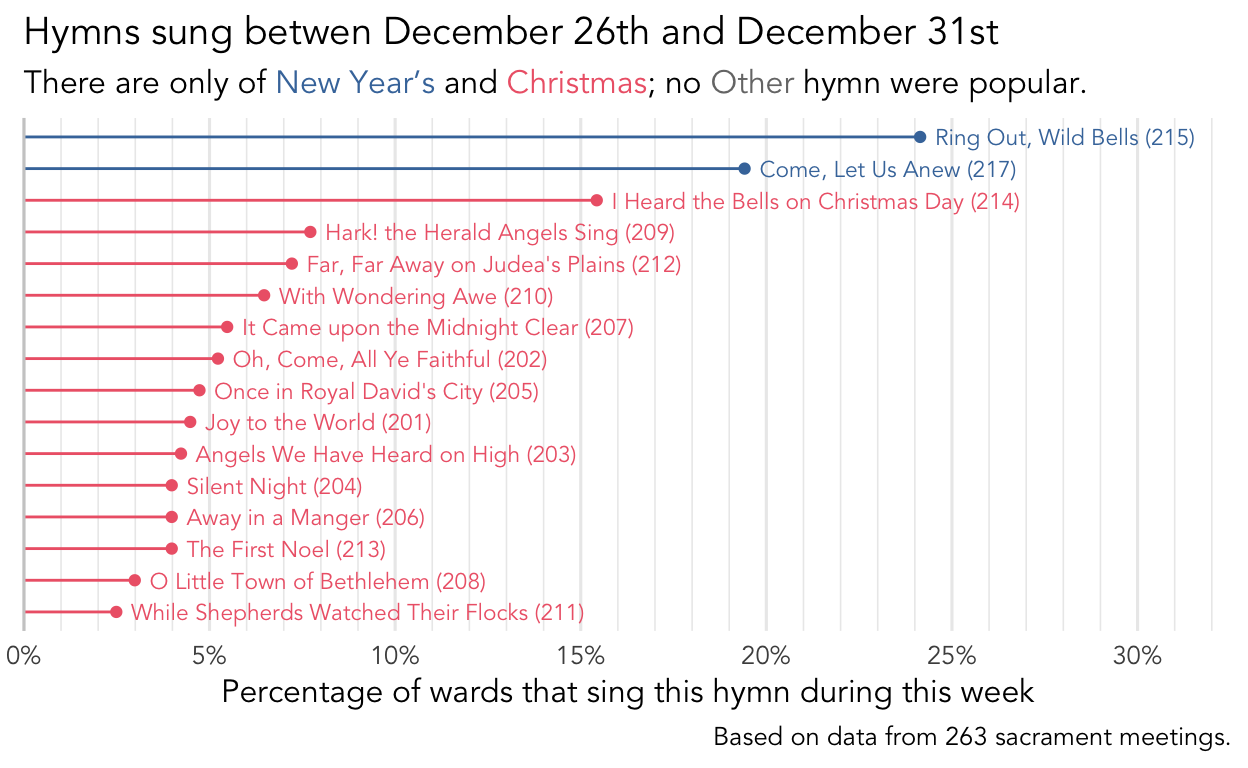
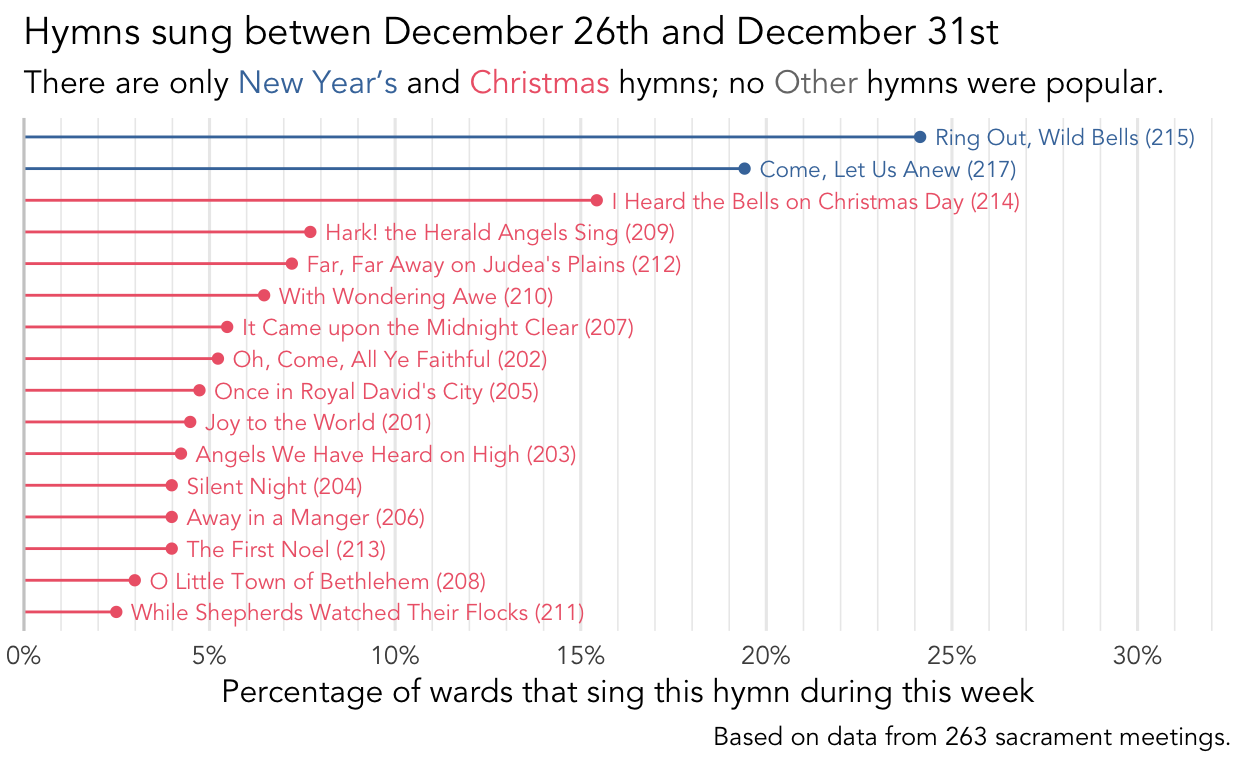
more typos

Changed region(s): [[0.1875, 0.0938, 0.9375, 0.125]]

diff --git a/docs/posts/new-years/index.html b/docs/posts/new-years/index.html
@@ -274,23 +274,23 @@ Note
 <div class="cell-output-display">
 <div id="tbl-n_of_each" class="anchored">
 
-<div id="pnsqdwybxy" style="padding-left:0px;padding-right:0px;padding-top:10px;padding-bottom:10px;overflow-x:auto;overflow-y:auto;width:auto;height:auto;">
-<style>#pnsqdwybxy table {
+<div id="xvkauwiksa" style="padding-left:0px;padding-right:0px;padding-top:10px;padding-bottom:10px;overflow-x:auto;overflow-y:auto;width:auto;height:auto;">
+<style>#xvkauwiksa table {
   font-family: system-ui, 'Segoe UI', Roboto, Helvetica, Arial, sans-serif, 'Apple Color Emoji', 'Segoe UI Emoji', 'Segoe UI Symbol', 'Noto Color Emoji';
   -webkit-font-smoothing: antialiased;
   -moz-osx-font-smoothing: grayscale;
 }
 
-#pnsqdwybxy thead, #pnsqdwybxy tbody, #pnsqdwybxy tfoot, #pnsqdwybxy tr, #pnsqdwybxy td, #pnsqdwybxy th {
+#xvkauwiksa thead, #xvkauwiksa tbody, #xvkauwiksa tfoot, #xvkauwiksa tr, #xvkauwiksa td, #xvkauwiksa th {
   border-style: none;
 }
 
-#pnsqdwybxy p {
+#xvkauwiksa p {
   margin: 0;
   padding: 0;
 }
 
-#pnsqdwybxy .gt_table {
+#xvkauwiksa .gt_table {
   display: table;
   border-collapse: collapse;
   line-height: normal;
@@ -316,12 +316,12 @@ Note
   border-left-color: #D3D3D3;
 }
 
-#pnsqdwybxy .gt_caption {
+#xvkauwiksa .gt_caption {
   padding-top: 4px;
   padding-bottom: 4px;
 }
 
-#pnsqdwybxy .gt_title {
+#xvkauwiksa .gt_title {
   color: #333333;
   font-size: 125%;
   font-weight: initial;
@@ -333,7 +333,7 @@ Note
   border-bottom-width: 0;
 }
 
-#pnsqdwybxy .gt_subtitle {
+#xvkauwiksa .gt_subtitle {
   color: #333333;
   font-size: 85%;
   font-weight: initial;
@@ -345,7 +345,7 @@ Note
   border-top-width: 0;
 }
 
-#pnsqdwybxy .gt_heading {
+#xvkauwiksa .gt_heading {
   background-color: #FFFFFF;
   text-align: center;
   border-bottom-color: #FFFFFF;
@@ -357,13 +357,13 @@ Note
   border-right-color: #D3D3D3;
 }
 
-#pnsqdwybxy .gt_bottom_border {
+#xvkauwiksa .gt_bottom_border {
   border-bottom-style: solid;
   border-bottom-width: 2px;
   border-bottom-color: #D3D3D3;
 }
 
-#pnsqdwybxy .gt_col_headings {
+#xvkauwiksa .gt_col_headings {
   border-top-style: solid;
   border-top-width: 2px;
   border-top-color: #D3D3D3;
@@ -378,7 +378,7 @@ Note
   border-right-color: #D3D3D3;
 }
 
-#pnsqdwybxy .gt_col_heading {
+#xvkauwiksa .gt_col_heading {
   color: #333333;
   background-color: #FFFFFF;
   font-size: 100%;
@@ -398,7 +398,7 @@ Note
   overflow-x: hidden;
 }
 
-#pnsqdwybxy .gt_column_spanner_outer {
+#xvkauwiksa .gt_column_spanner_outer {
   color: #333333;
   background-color: #FFFFFF;
   font-size: 100%;
@@ -410,15 +410,15 @@ Note
   padding-right: 4px;
 }
 
-#pnsqdwybxy .gt_column_spanner_outer:first-child {
+#xvkauwiksa .gt_column_spanner_outer:first-child {
   padding-left: 0;
 }
 
-#pnsqdwybxy .gt_column_spanner_outer:last-child {
+#xvkauwiksa .gt_column_spanner_outer:last-child {
   padding-right: 0;
 }
 
-#pnsqdwybxy .gt_column_spanner {
+#xvkauwiksa .gt_column_spanner {
   border-bottom-style: solid;
   border-bottom-width: 2px;
   border-bottom-color: #D3D3D3;
@@ -430,11 +430,11 @@ Note
   width: 100%;
 }
 
-#pnsqdwybxy .gt_spanner_row {
+#xvkauwiksa .gt_spanner_row {
   border-bottom-style: hidden;
 }
 
-#pnsqdwybxy .gt_group_heading {
+#xvkauwiksa .gt_group_heading {
   padding-top: 8px;
   padding-bottom: 8px;
   padding-left: 5px;
@@ -460,7 +460,7 @@ Note
   text-align: left;
 }
 
-#pnsqdwybxy .gt_empty_group_heading {
+#xvkauwiksa .gt_empty_group_heading {
   padding: 0.5px;
   color: #333333;
   background-color: #FFFFFF;
@@ -475,15 +475,15 @@ Note
   vertical-align: middle;
 }
 
-#pnsqdwybxy .gt_from_md > :first-child {
+#xvkauwiksa .gt_from_md > :first-child {
   margin-top: 0;
 }
 
-#pnsqdwybxy .gt_from_md > :last-child {
+#xvkauwiksa .gt_from_md > :last-child {
   margin-bottom: 0;
 }
 
-#pnsqdwybxy .gt_row {
+#xvkauwiksa .gt_row {
   padding-top: 8px;
   padding-bottom: 8px;
   padding-left: 5px;
@@ -502,7 +502,7 @@ Note
   overflow-x: hidden;
 }
 
-#pnsqdwybxy .gt_stub {
+#xvkauwiksa .gt_stub {
   color: #333333;
   background-color: #FFFFFF;
   font-size: 100%;
@@ -515,7 +515,7 @@ Note
   padding-right: 5px;
 }
 
-#pnsqdwybxy .gt_stub_row_group {
+#xvkauwiksa .gt_stub_row_group {
   color: #333333;
   background-color: #FFFFFF;
   font-size: 100%;
@@ -529,15 +529,15 @@ Note
   vertical-align: top;
 }
 
-#pnsqdwybxy .gt_row_group_first td {
+#xvkauwiksa .gt_row_group_first td {
   border-top-width: 2px;
 }
 
-#pnsqdwybxy .gt_row_group_first th {
+#xvkauwiksa .gt_row_group_first th {
   border-top-width: 2px;
 }
 
-#pnsqdwybxy .gt_summary_row {
+#xvkauwiksa .gt_summary_row {
   color: #333333;
   background-color: #FFFFFF;
   text-transform: inherit;
@@ -547,16 +547,16 @@ Note
   padding-right: 5px;
 }
 
-#pnsqdwybxy .gt_first_summary_row {
+#xvkauwiksa .gt_first_summary_row {
   border-top-style: solid;
   border-top-color: #D3D3D3;
 }
 
-#pnsqdwybxy .gt_first_summary_row.thick {
+#xvkauwiksa .gt_first_summary_row.thick {
   border-top-width: 2px;
 }
 
-#pnsqdwybxy .gt_last_summary_row {
+#xvkauwiksa .gt_last_summary_row {
   padding-top: 8px;
   padding-bottom: 8px;
   padding-left: 5px;
@@ -566,7 +566,7 @@ Note
   border-bottom-color: #D3D3D3;
 }
 
-#pnsqdwybxy .gt_grand_summary_row {
+#xvkauwiksa .gt_grand_summary_row {
   color: #333333;
   background-color: #FFFFFF;
   text-transform: inherit;
@@ -576,7 +576,7 @@ Note
   padding-right: 5px;
 }
 
-#pnsqdwybxy .gt_first_grand_summary_row {
+#xvkauwiksa .gt_first_grand_summary_row {
   padding-top: 8px;
   padding-bottom: 8px;
   padding-left: 5px;
@@ -586,7 +586,7 @@ Note
   border-top-color: #D3D3D3;
 }
 
-#pnsqdwybxy .gt_last_grand_summary_row_top {
+#xvkauwiksa .gt_last_grand_summary_row_top {
   padding-top: 8px;
   padding-bottom: 8px;
   padding-left: 5px;
@@ -596,11 +596,11 @@ Note
   border-bottom-color: #D3D3D3;
 }
 
-#pnsqdwybxy .gt_striped {
+#xvkauwiksa .gt_striped {
   background-color: rgba(128, 128, 128, 0.05);
 }
 
-#pnsqdwybxy .gt_table_body {
+#xvkauwiksa .gt_table_body {
   border-top-style: solid;
   border-top-width: 2px;
   border-top-color: #D3D3D3;
@@ -609,7 +609,7 @@ Note
   border-bottom-color: #D3D3D3;
 }
 
-#pnsqdwybxy .gt_footnotes {
+#xvkauwiksa .gt_footnotes {
   color: #333333;
   background-color: #FFFFFF;
   border-bottom-style: none;
@@ -623,7 +623,7 @@ Note
   border-right-color: #D3D3D3;
 }
 
-#pnsqdwybxy .gt_footnote {
+#xvkauwiksa .gt_footnote {
   margin: 0px;
   font-size: 90%;
   padding-top: 4px;
@@ -632,7 +632,7 @@ Note
   padding-right: 5px;
 }
 
-#pnsqdwybxy .gt_sourcenotes {
+#xvkauwiksa .gt_sourcenotes {
   color: #333333;
   background-color: #FFFFFF;
   border-bottom-style: none;
@@ -646,7 +646,7 @@ Note
   border-right-color: #D3D3D3;
 }
 
-#pnsqdwybxy .gt_sourcenote {
+#xvkauwiksa .gt_sourcenote {
   font-size: 90%;
   padding-top: 4px;
   padding-bottom: 4px;
@@ -654,63 +654,63 @@ Note
   padding-right: 5px;
 }
 
-#pnsqdwybxy .gt_left {
+#xvkauwiksa .gt_left {
   text-align: left;
 }
 
-#pnsqdwybxy .gt_center {
+#xvkauwiksa .gt_center {
   text-align: center;
 }
 
-#pnsqdwybxy .gt_right {
+#xvkauwiksa .gt_right {
   text-align: right;
   font-variant-numeric: tabular-nums;
 }
 
-#pnsqdwybxy .gt_font_normal {
+#xvkauwiksa .gt_font_normal {
   font-weight: normal;
 }
 
-#pnsqdwybxy .gt_font_bold {
+#xvkauwiksa .gt_font_bold {
   font-weight: bold;
 }
 
-#pnsqdwybxy .gt_font_italic {
+#xvkauwiksa .gt_font_italic {
   font-style: italic;
 }
 
-#pnsqdwybxy .gt_super {
+#xvkauwiksa .gt_super {
   font-size: 65%;
 }
 
-#pnsqdwybxy .gt_footnote_marks {
+#xvkauwiksa .gt_footnote_marks {
   font-size: 75%;
   vertical-align: 0.4em;
   position: initial;
 }
 
-#pnsqdwybxy .gt_asterisk {
+#xvkauwiksa .gt_asterisk {
   font-size: 100%;
   vertical-align: 0;
 }
 
-#pnsqdwybxy .gt_indent_1 {
+#xvkauwiksa .gt_indent_1 {
   text-indent: 5px;
 }
 
-#pnsqdwybxy .gt_indent_2 {
+#xvkauwiksa .gt_indent_2 {
   text-indent: 10px;
 }
 
-#pnsqdwybxy .gt_indent_3 {
+#xvkauwiksa .gt_indent_3 {
   text-indent: 15px;
 }
 
-#pnsqdwybxy .gt_indent_4 {
+#xvkauwiksa .gt_indent_4 {
   text-indent: 20px;
 }
 
-#pnsqdwybxy .gt_indent_5 {
+#xvkauwiksa .gt_indent_5 {
   text-indent: 25px;
 }
 </style>

diff --git a/docs/findings.html b/docs/findings.html
@@ -217,7 +217,7 @@ gtag('config', 'G-SG4E42NZ2F', { 'anonymize_ip': true});
 
 <div class="quarto-listing quarto-listing-container-default" id="listing-listing">
 <div class="list quarto-listing-default">
-<div class="quarto-post image-right" data-index="0" data-categories="holidays,frequency" data-listing-date-sort="1703833200000" data-listing-file-modified-sort="1703868406397" data-listing-date-modified-sort="NaN" data-listing-reading-time-sort="28">
+<div class="quarto-post image-right" data-index="0" data-categories="holidays,frequency" data-listing-date-sort="1703833200000" data-listing-file-modified-sort="1703868713942" data-listing-date-modified-sort="NaN" data-listing-reading-time-sort="28">
 <div class="thumbnail">
 <p><a href="./posts/new-years/index.html"> <img src="./posts/new-years/cover.png" class="thumbnail-image"> </a></p>
 </div>
